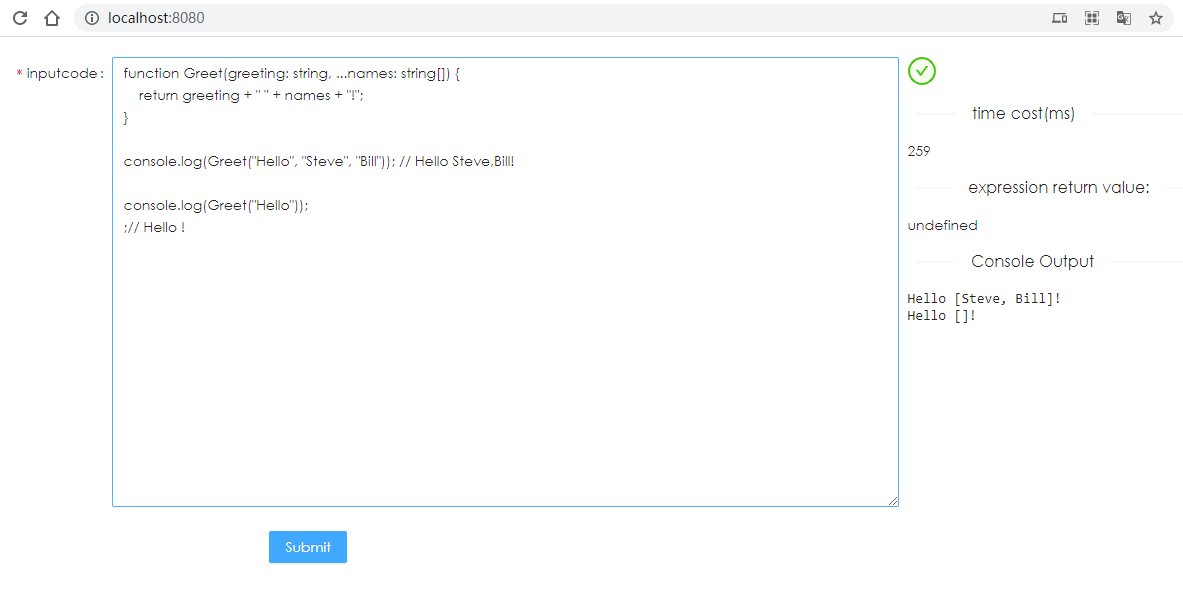
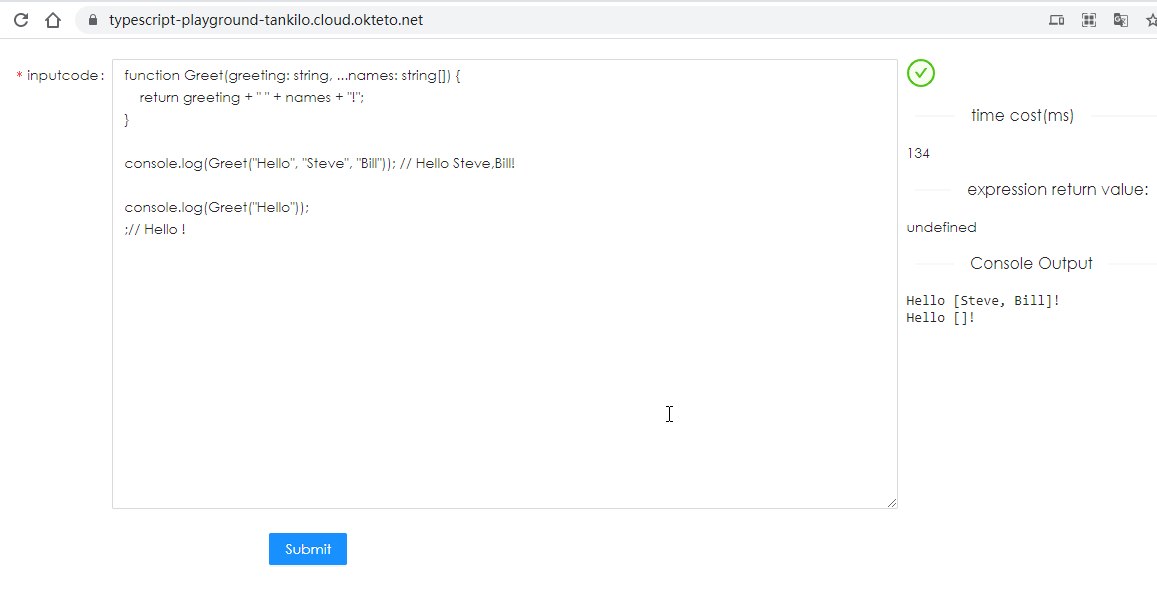
deploy to okteto cloud

diff --git a/README.md b/README.md
@@ -1,8 +1,6 @@
 # Overview
 A simple TypeScript interpreter written in Java base on Babel Parser's ast. Only support a subset of TypeScript Grammar.
 
-![img.png](assets/img.png)
-
 # Why i write it
 I need to execute TypeScript in Java and I didn't found any existing opensource TypeScript Interpreter to use.
 
@@ -14,8 +12,12 @@ Currently, i only support a small subset of TypeScript  Syntax. And i place a lo
 
 The input code should be compiled and executed with TypeScript offcial toolkit. This project aims to execute code, it will not check whether the code comply with TypeScript grammar.
 
-# How to run the code
+# Live Demo
+Visit [https://typescript-playground-tankilo.cloud.okteto.net/](https://typescript-playground-tankilo.cloud.okteto.net/)
 
+![Screenshot](assets/img.png)
+
+# How to run the code
 
 ## Command Line
 Execute `com.tankilo.typescript.interpreter.cmd.Main`, it's a simple command line tool.
